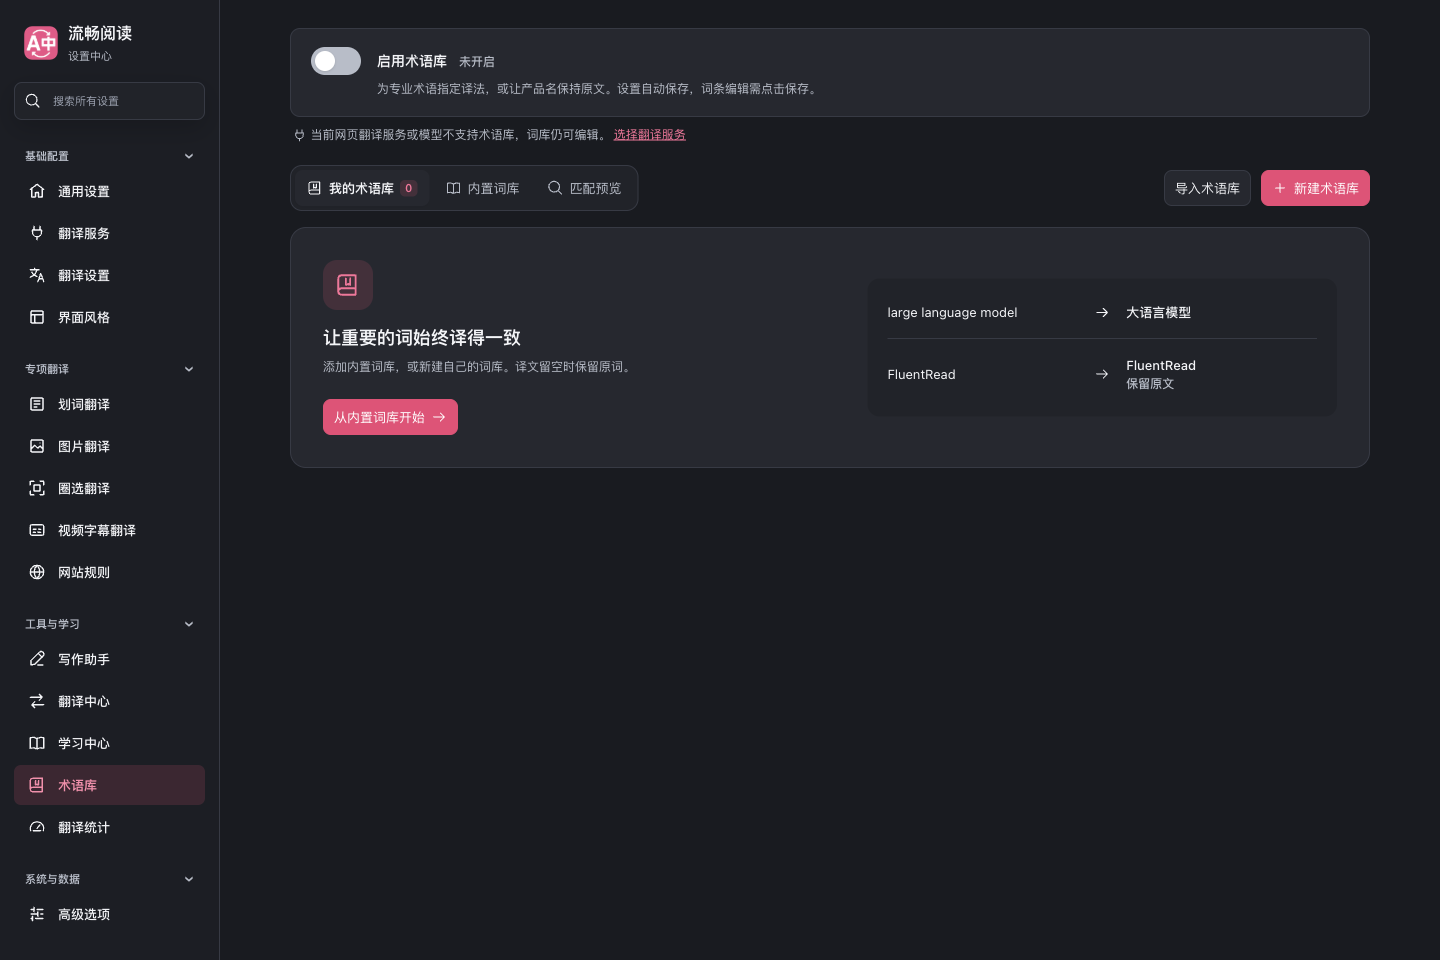
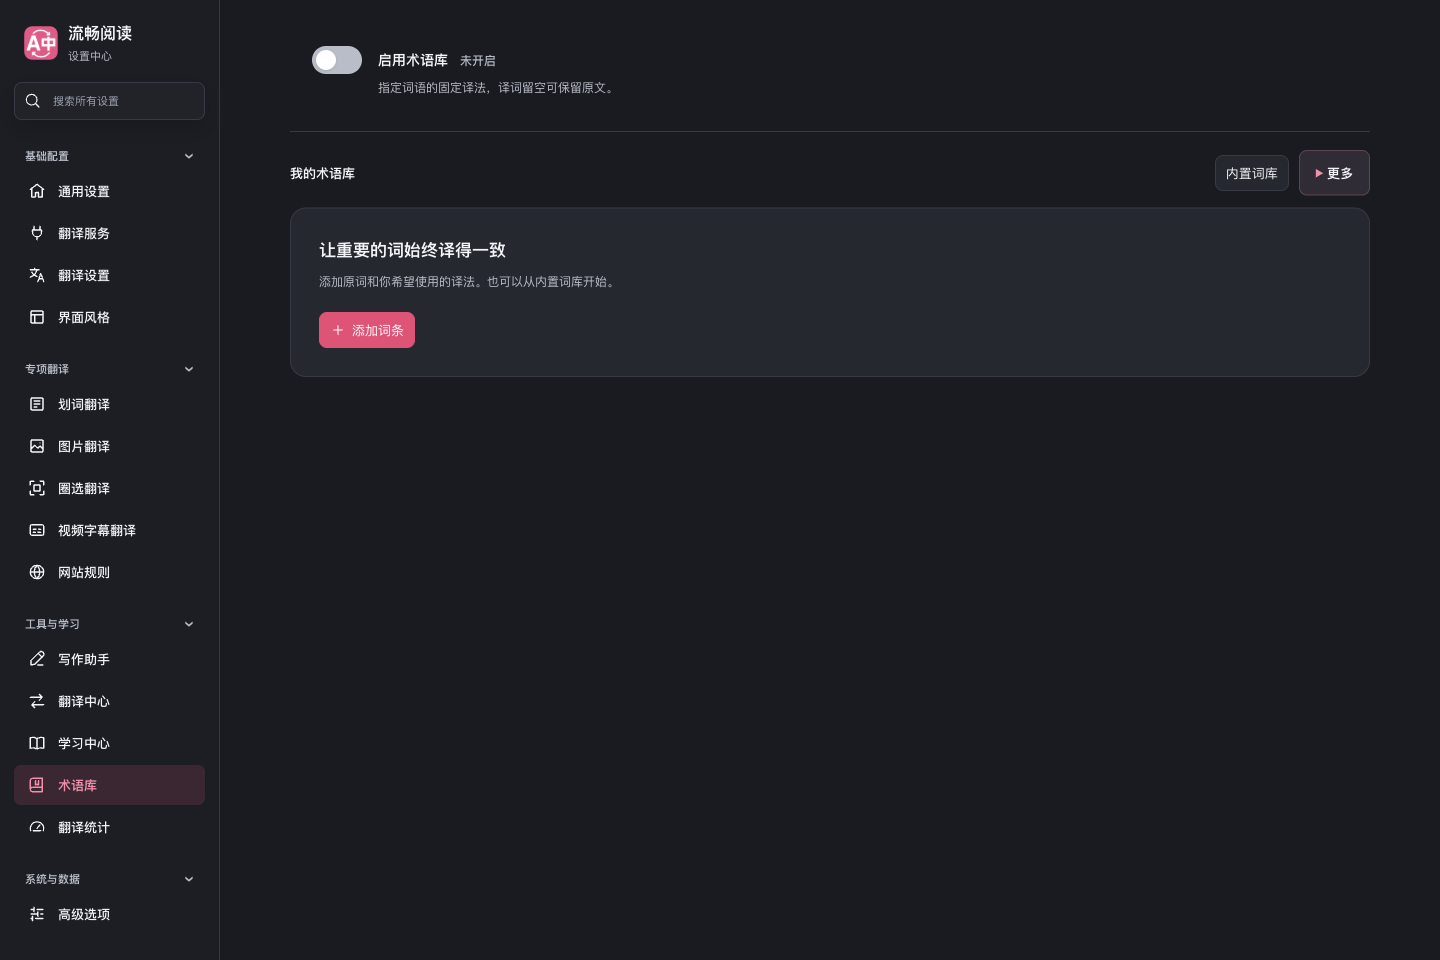
docs: record settings validation after main integration

diff --git a/docs/reports/settings-center-20260930.md b/docs/reports/settings-center-20260930.md
@@ -14,7 +14,7 @@
 
 ## 实际界面
 
-以下为隔离 Edge 浏览器加载生产扩展后的原始截图，使用独立测试配置。
+以下为整合最新主分支后，隔离 Edge 浏览器加载生产扩展的原始截图，使用独立测试配置。
 
 ![按功能分配翻译服务](./settings-center-20260930/feature-services.png)
 
@@ -26,7 +26,7 @@
 
 [窄屏服务分配](./settings-center-20260930/mobile-feature-services.png) · [弹窗入口](./settings-center-20260930/popup-shortcut.png) · [深色开关](./settings-center-20260930/dark-master-switch.png)
 
-## 验证结果
+## 首轮验证结果
 
 | 范围 | 结果 |
 | --- | --- |
@@ -45,10 +45,22 @@
 
 证据：[浏览器报告](./settings-center-20260930/browser-report.json)、[定向测试](./settings-center-20260930/fr-settings-final-tests.log)、[最终补充测试](./settings-center-20260930/fr-settings-last-tests.log)、[基线复现](./settings-center-20260930/fr-settings-baseline-tests.log)、[覆盖率](./settings-center-20260930/fr-settings-complete-coverage.log)、[分类审计](./settings-center-20260930/fr-settings-complete-audit.log)。
 
+## 合并前整合验证
+
+整合主分支 `c6537141` 的术语库与伴读面板更新，保留双方新增多语言内容并重新生成 userscript 语言资源。最终产品代码与构建配置为 `76ef4011`，此后的变动仅更新验证记录与截图。
+
+- 20 个定向测试文件、1431 项测试全部通过，覆盖设置、服务路由、术语库、伴读与源文件职责注释。
+- 服务分配与导航模块的 29 项覆盖率测试通过，语句、分支、函数和行四维均为 100%。
+- 类型检查、Chrome/Firefox/userscript 生产构建、userscript 产物校验和测试分类审计通过。
+- 生产浏览器再次通过全部 17 页、25 个分类和 123 项布局检查；服务分配、整卡开关、旧统计链接、弹窗跳转、重开保存、快速关闭和跨页同步全部通过，控制台错误为 0。
+- 截图与浏览器报告已替换为整合后的结果；已复核全部 99 张截图。首轮两个已复现的基线架构问题未在本次范围内修改。
+
+整合证据：[测试日志](./settings-center-20260930/fr-settings-merge-tests.log)、[覆盖率](./settings-center-20260930/fr-settings-merge-coverage.log)、[分类审计](./settings-center-20260930/fr-settings-merge-audit.log)、[userscript 产物校验](./settings-center-20260930/fr-settings-merge-userscript-verify.log)。
+
 ## 复现入口与边界
 
 浏览器脚本为 `scripts/testing/run-settings-center-navigation-test.cjs`，接收 `--extension-dir`、`--playwright-root`、`--focus-safe-helper` 和 `--artifacts-dir`。本次使用第二块屏幕的独立临时配置，窗口可见但未抢占前台焦点。测试结束关闭测试浏览器并清理临时配置。
 
-此次验证不包含真实付费服务请求、Firefox 实际运行、真实移动设备或应用商店发布。服务路由由定向测试验证；浏览器验证配置选择和持久化。构建使用本机已有依赖，不构成全新安装证明。Userscript 语言资源已生成并绑定本地资源提交，提交尚未发布，未验证远程 CDN 加载。
+此次验证不包含真实付费服务请求、Firefox 实际运行、真实移动设备或应用商店发布。服务路由由定向测试验证；浏览器验证配置选择和持久化。构建使用本机已有依赖，不构成全新安装证明。Userscript 语言资源已生成并绑定包含完整资源的提交，未验证远程 CDN 加载。
 
-改动保存在独立 worktree 与本地分支，未推送、创建 PR 或合并到主分支；用户日常使用的扩展未被替换。
+改动在独立 worktree 中开发并通过正式 PR 交付，实际合并状态以 GitHub 记录为准。用户日常使用的扩展未被替换。
